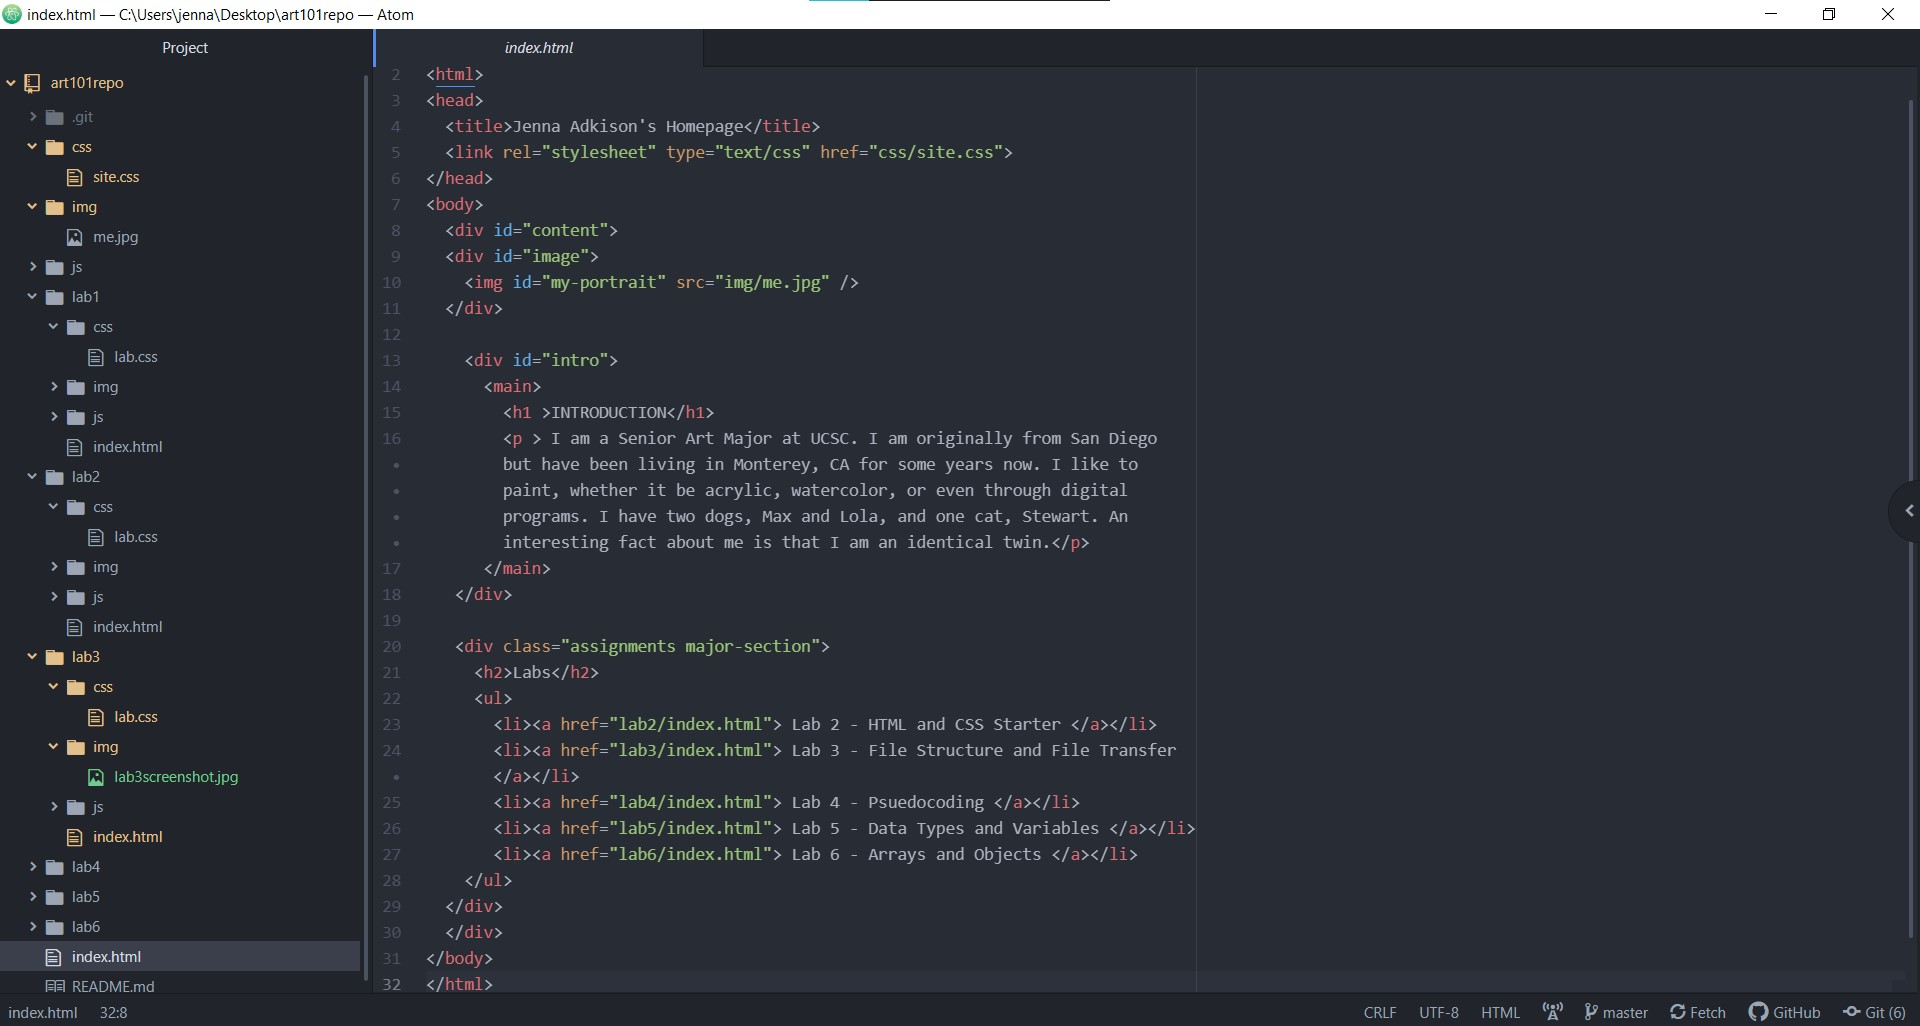
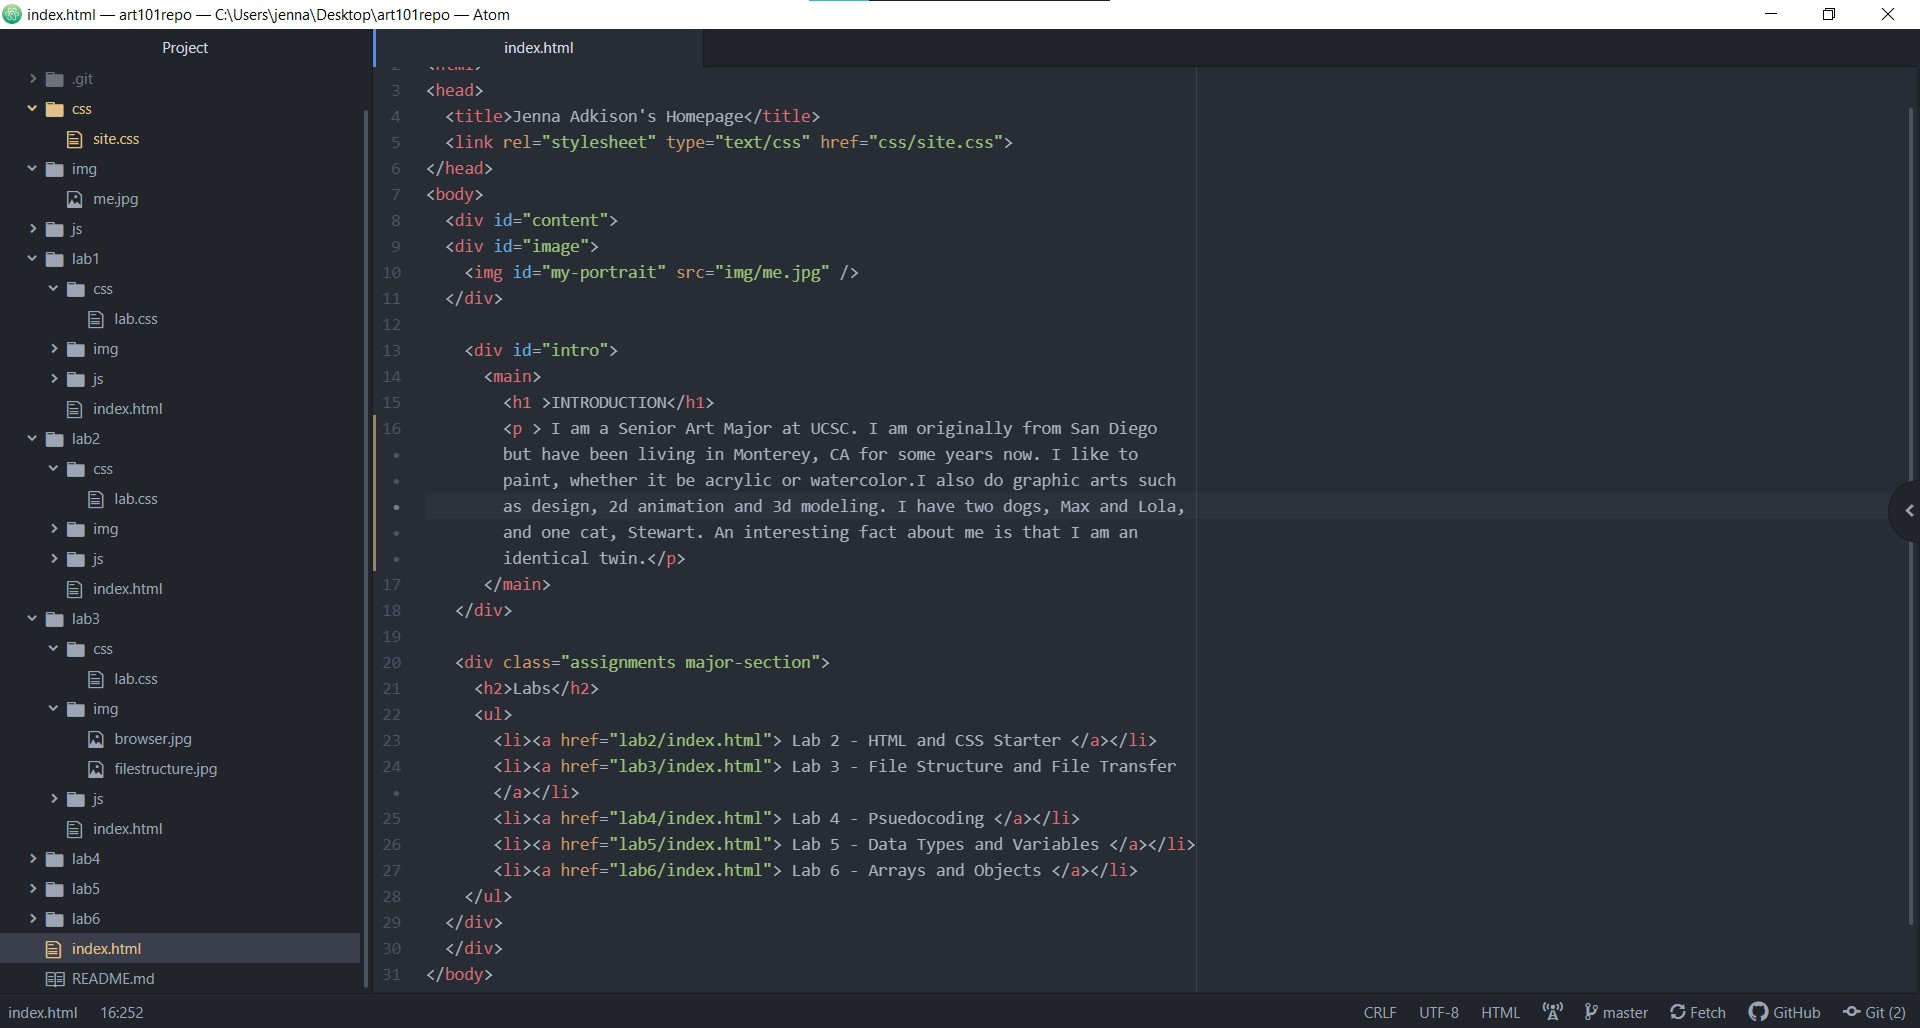
updated intro

diff --git a/index.html b/index.html
@@ -13,7 +13,7 @@
 		<div id="intro">
 			<main>
 				<h1 >INTRODUCTION</h1>
-				<p > I am a Senior Art Major at UCSC. I am originally from San Diego but have been living in Monterey, CA for some years now. I like to paint, whether it be acrylic, watercolor, or even through digital programs. I have two dogs, Max and Lola, and one cat, Stewart. An interesting fact about me is that I am an identical twin.</p>
+				<p > I am a Senior Art Major at UCSC. I am originally from San Diego but have been living in Monterey, CA for some years now. I like to paint, whether it be acrylic or watercolor.I also do graphic arts such as design, 2d animation and 3d modeling. I have two dogs, Max and Lola, and one cat, Stewart. An interesting fact about me is that I am an identical twin.</p>
 			</main>
 	 </div>
 

diff --git a/css/site.css b/css/site.css
@@ -18,7 +18,7 @@ body{
   color: mintcream;
   padding-left: 80px;
   padding-right: 800px;
-  padding-top: 70px;
+  padding-top: 40px;
   text-align:justify;
 }
 h1{
